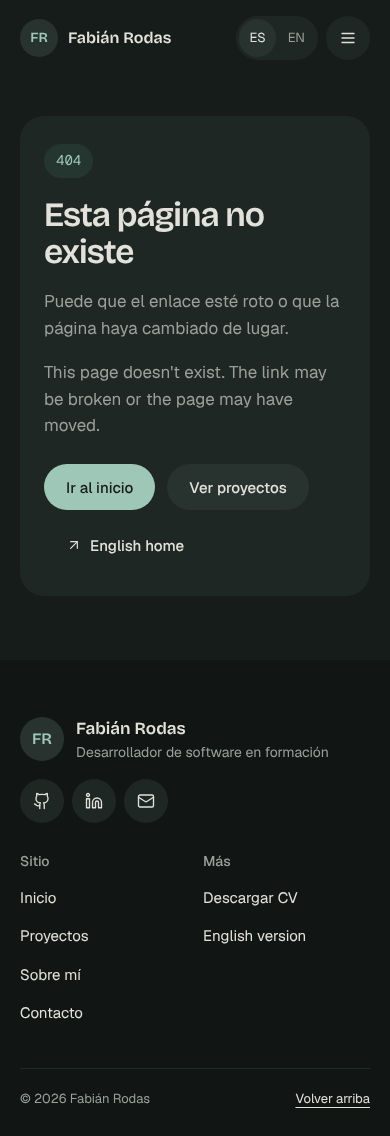
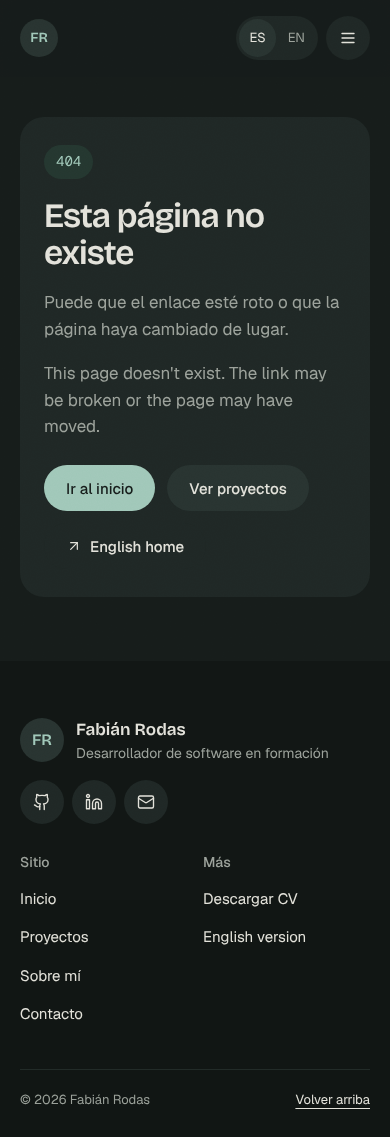
docs: Foto del hero, decisiones 36 a 39, reporte y capturas actualizados
Claude-Session: https://claude.ai/code/session_01P25f2q1FU6c4eH67GAYuLX

diff --git a/docs/DECISIONES-IMPLEMENTACION.md b/docs/DECISIONES-IMPLEMENTACION.md
@@ -54,3 +54,8 @@ Decisiones tomadas donde `docs/diseno/PLAN.md` o los artboards no especificaban 
 33. **Se quitó la sección de Notas del alcance.** Se eliminaron la colección `notas`, las rutas `/notas/` y `/en/notas/` (lista, nota individual y RSS), los filtros y la paginación, los componentes MDX (`Figura`, `Aviso`, `Pendientes`), el tema de Shiki y las integraciones `@astrojs/mdx` y `@astrojs/rss`. También salieron de la navegación, el pie (enlace e icono RSS), el inicio ("Últimas notas"), el caso de estudio ("Bitácora de versiones" y su entrada en el índice), la tarjeta de Lumen en /proyectos/ ("N notas en la bitácora") y el motivo "Una nota del blog" del formulario. Las decisiones 10 a 14 y 16 a 18 sobre notas ya no aplican. Los artboards `Notas.dc.html` y `Nota.dc.html` se conservan en `docs/` como historial del diseño.
 34. **Hero del inicio rediseñado** para que se vea menos genérico: se quitaron la insignia "Disponible…", el titular de eslogan, los dos botones tipo píldora, la lista con iconos y el collage de capturas con la tarjeta flotante. Ahora es tipográfico: una línea con rol y ciudad sobre una regla fina, el nombre en grande (Bricolage Grotesque), una presentación en primera persona con enlaces a Lumen y Cifra dentro del texto, enlaces discretos (proyectos, CV y email) y una ficha a la derecha con "Ahora / Estudio / Antes / Busco". La ficha reemplaza a la sección "En qué estoy ahora", que repetía esa información. Las capturas siguen apareciendo justo debajo, en "Proyectos destacados".
 35. **Pruebas visuales**: el inicio ya no se compara con `Main.dc.html` ni `HomeMobile.dc.html` (se cambió a propósito), y en el caso de estudio solo se compara la primera pantalla porque la página es más corta sin la bitácora.
+
+36. **Hero animado con foto sin fondo.** Se combinaron patrones conocidos de portafolios: retrato recortado anclado al borde inferior y desvanecido con `mask-image` sobre un brillo tipo *aurora* (tres degradados radiales desenfocados que derivan con `@keyframes`); una franja *marquee* gigante con texto en contorno detrás de la foto; el nombre revelado línea por línea con máscara (`overflow: hidden` + `translateY(110%)`, el efecto *split text reveal*); la foto apareciendo con `clip-path` de abajo hacia arriba; una píldora "Ahora: Lumen v1.8" con punto que late; un indicador de scroll; un leve parallax e inclinación 3D de la foto y la aurora que siguen al mouse (`src/scripts/hero.ts`, solo con mouse), y el fondo del hero alejándose con `animation-timeline: scroll()`. Todo respeta `prefers-reduced-motion`. La foto real se configura en `sitio.retrato`; mientras tanto se usa una silueta SVG.
+37. **El nombre ya no está en la cabecera.** Solo queda el monograma "FR" como enlace al inicio (con `aria-label`). La cabecera ahora es fija (`position: sticky`) con fondo translúcido y `backdrop-filter`, y muestra un borde al hacer scroll.
+38. **Más profundidad en todo el sitio**: grano de película sutil (SVG `feTurbulence` en `body::after`); tarjetas con borde de luz, sombra y *spotlight* que sigue al cursor (patrón de Linear/Vercel; `src/scripts/spotlight.ts` y las clases `.tarjeta` / `.spot`); las tarjetas enlazadas suben 4 px al pasar el mouse; bandas de contraste a todo el ancho (`.banda`) en Proyectos destacados, Qué hago, Certificaciones, Otros proyectos y el final del caso; títulos que se revelan con máscara al entrar en pantalla (`animation-timeline: view()`, solo donde hay soporte), y una doble franja *marquee* de tecnologías bajo el hero. Se agregaron tokens nuevos (`--c-borde`, `--c-banda`, `--c-brillo`, sombras) sin cambiar los colores originales.
+39. **Pruebas visuales**: ahora solo comparan la primera pantalla con los artboards (≥ 90 %); el alto ya no, porque las bandas cambian el largo de las páginas a propósito.

diff --git a/docs/REPORTE-FINAL.md b/docs/REPORTE-FINAL.md
@@ -1,6 +1,6 @@
 # Reporte final
 
-> **Actualización (después del PR #1):** se quitó la sección de Notas del alcance y se rediseñó el hero del inicio. Detalle en `docs/DECISIONES-IMPLEMENTACION.md` (decisiones 33 a 35). Las cifras de abajo ya reflejan ese cambio.
+> **Actualizaciones (después del PR #1):** se quitó la sección de Notas del alcance; el inicio tiene un hero animado con foto sin fondo; la cabecera ya no muestra el nombre, y todo el sitio ganó profundidad (grano, spotlight en tarjetas, bandas de contraste, títulos revelados). Detalle en `docs/DECISIONES-IMPLEMENTACION.md` (decisiones 33 a 39). Pon tu foto siguiendo la sección "Poner tu foto en el hero" del README.
 
 ## Resultado
 
@@ -17,25 +17,25 @@ El portafolio está implementado de punta a punta según `docs/diseno/PLAN.md` y
 
 Medido en Chromium, renderizando cada artboard con `scripts/artboards/support.js` y la ruta del sitio en el mismo viewport.
 
-| Artboard | Ruta | Ancho | Alto artboard | Alto sitio | Primera pantalla idéntica |
-|---|---|---|---|---|---|
-| Proyectos | `/proyectos/` | 1440 | 2975 | 2975 | 99.9 % |
-| Proyecto | `/proyectos/lumen/` | 1440 | 4730 | 4188 (sin bitácora) | > 90 % |
-| SobreMi | `/sobre-mi/` | 1440 | 3790 | 3790 | 100 % |
-| Contacto | `/contacto/` | 1440 | 1696 | 1696 | 100 % |
+| Artboard | Ruta | Primera pantalla idéntica (1440 px) |
+|---|---|---|
+| Proyectos | `/proyectos/` | 97.8 % |
+| Proyecto | `/proyectos/lumen/` | 99.0 % |
+| SobreMi | `/sobre-mi/` | 99.1 % |
+| Contacto | `/contacto/` | 99.0 % |
 
-La navegación ahora tiene cuatro enlaces y algunos controles subieron a 44 px por accesibilidad; el resto coincide. Capturas de referencia: `docs/capturas/referencia/`. Capturas del sitio (ES/EN, 1440 y 390 px): `docs/capturas/sitio/`.
+Las diferencias vienen de la cabecera (sin nombre, cuatro enlaces) y de los bordes de luz de las tarjetas. Capturas de referencia: `docs/capturas/referencia/`. Capturas del sitio (ES/EN, 1440 y 390 px): `docs/capturas/sitio/`.
 
 ### Lighthouse (sobre `npm run preview`)
 
 | Ruta | Modo | Performance | Accessibility | Best Practices | SEO |
 |---|---|---|---|---|---|
-| `/` | móvil | 99 | 97 | 100 | 100 |
-| `/` | escritorio | 100 | 97 | 100 | 100 |
-| `/proyectos/` | móvil | 99 | 96 | 100 | 100 |
-| `/proyectos/` | escritorio | 100 | 96 | 100 | 100 |
-| `/contacto/` | móvil | 99 | 100 | 100 | 100 |
-| `/contacto/` | escritorio | 100 | 100 | 100 | 100 |
+| `/` | móvil | 99 | 96 | 100 | 100 |
+| `/` | escritorio | 98 | 96 | 100 | 100 |
+| `/proyectos/` | móvil | 99 | 100 | 100 | 100 |
+| `/proyectos/` | escritorio | 100 | 100 | 100 | 100 |
+| `/sobre-mi/` | móvil | 99 | 100 | 100 | 100 |
+| `/sobre-mi/` | escritorio | 100 | 100 | 100 | 100 |
 
 Accessibility no llega a 100 solo por el texto diminuto dentro de los mockups dibujados (réplica exacta del diseño). Se resuelve solo al usar capturas reales.
 
@@ -69,6 +69,7 @@ El despliegue en Cloudflare Pages y la conexión de fabianrodas.com están expli
 
 ## Qué falta que reemplaces
 
+0. **Tu foto sin fondo para el hero**: ver "Poner tu foto en el hero" en el README.
 1. **Proyectos reales**: edita o borra los archivos de `src/content/proyectos/{es,en}/`.
 2. **Capturas reales**: cambia `cover: lumen` (y los de `case.gallery`) por `{ src, alt, width, height }` con imágenes en `public/img/`. Ver el README.
 3. **Fotos de Sobre mí**: el retrato y las tres fotos de "Fuera del código" en `src/views/SobreMi.astro`.

diff --git a/README.md b/README.md
@@ -89,6 +89,14 @@ case:                             # opcional, solo para destacados
 
 Campos opcionales extra: `homeSummary`, `label`, `tags`, `homeTags`, `period`, `kind`, `platform`, `platformShort`, `links.privateRepo`, `case.gallery`. Todos están documentados en `src/content.config.ts`.
 
+## Poner tu foto en el hero
+
+El hero del inicio muestra una silueta de ejemplo (`public/img/retrato.svg`). Para usar tu foto:
+
+1. Recorta el fondo (por ejemplo con remove.bg, Photoshop o la herramienta de recorte de macOS/iOS) y expórtala como **PNG o WebP con transparencia**, vertical, de unos 1000 px de alto. Funciona mejor un plano de medio cuerpo con los hombros cortados abajo: la imagen se desvanece en el borde inferior.
+2. Guárdala en `public/img/`, por ejemplo `public/img/retrato.webp`.
+3. En `src/lib/sitio.ts` cambia `retrato` por `{ src: '/img/retrato.webp', width: <ancho>, height: <alto> }` con las medidas reales.
+
 ## Cambiar las imágenes de ejemplo por capturas reales
 
 Las capturas son mockups dibujados por `src/components/Shot.astro`. Para usar una imagen real:
@@ -138,5 +146,5 @@ Alternativa sin Git: `npm run build && npx wrangler pages deploy` (usa `wrangler
 ## Calidad
 
 - `npm run build` y `npm run check` sin errores.
-- 36 pruebas Playwright: comparación con los artboards (alto de página y primera pantalla píxel a píxel) en Proyectos, caso, Sobre mí y Contacto; capturas a 1440 y 390 px en ES/EN sin scroll horizontal; filtros, menú móvil, ES/EN, formulario y copiar.
+- 36 pruebas Playwright: comparación con los artboards (primera pantalla píxel a píxel) en Proyectos, caso, Sobre mí y Contacto; capturas a 1440 y 390 px en ES/EN sin scroll horizontal; filtros, menú móvil, ES/EN, formulario y copiar.
 - Lighthouse ≥ 95 en Performance, Accessibility, Best Practices y SEO en `/`, `/proyectos/` y `/contacto/`.
